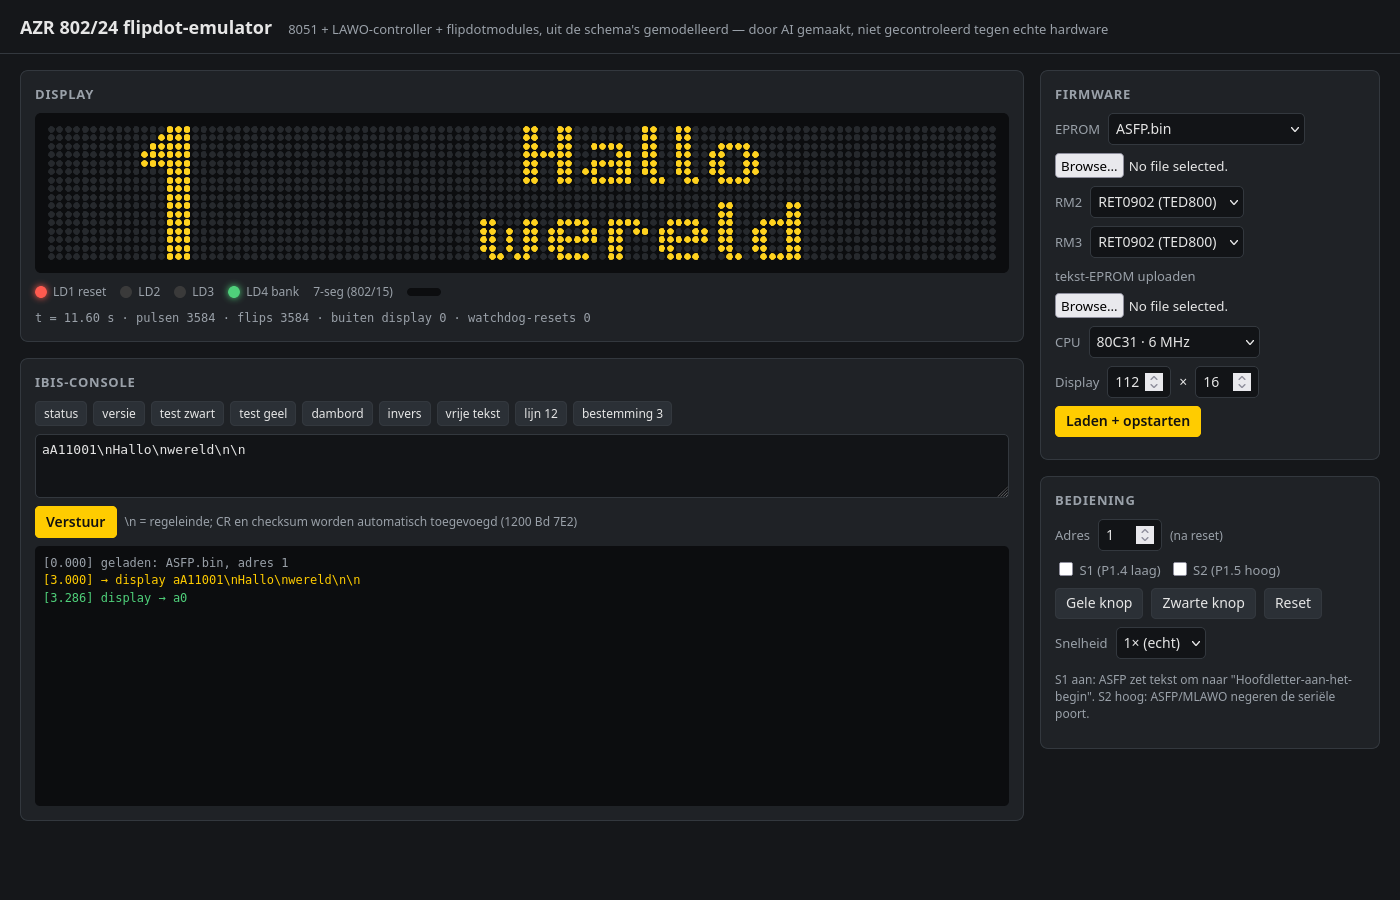
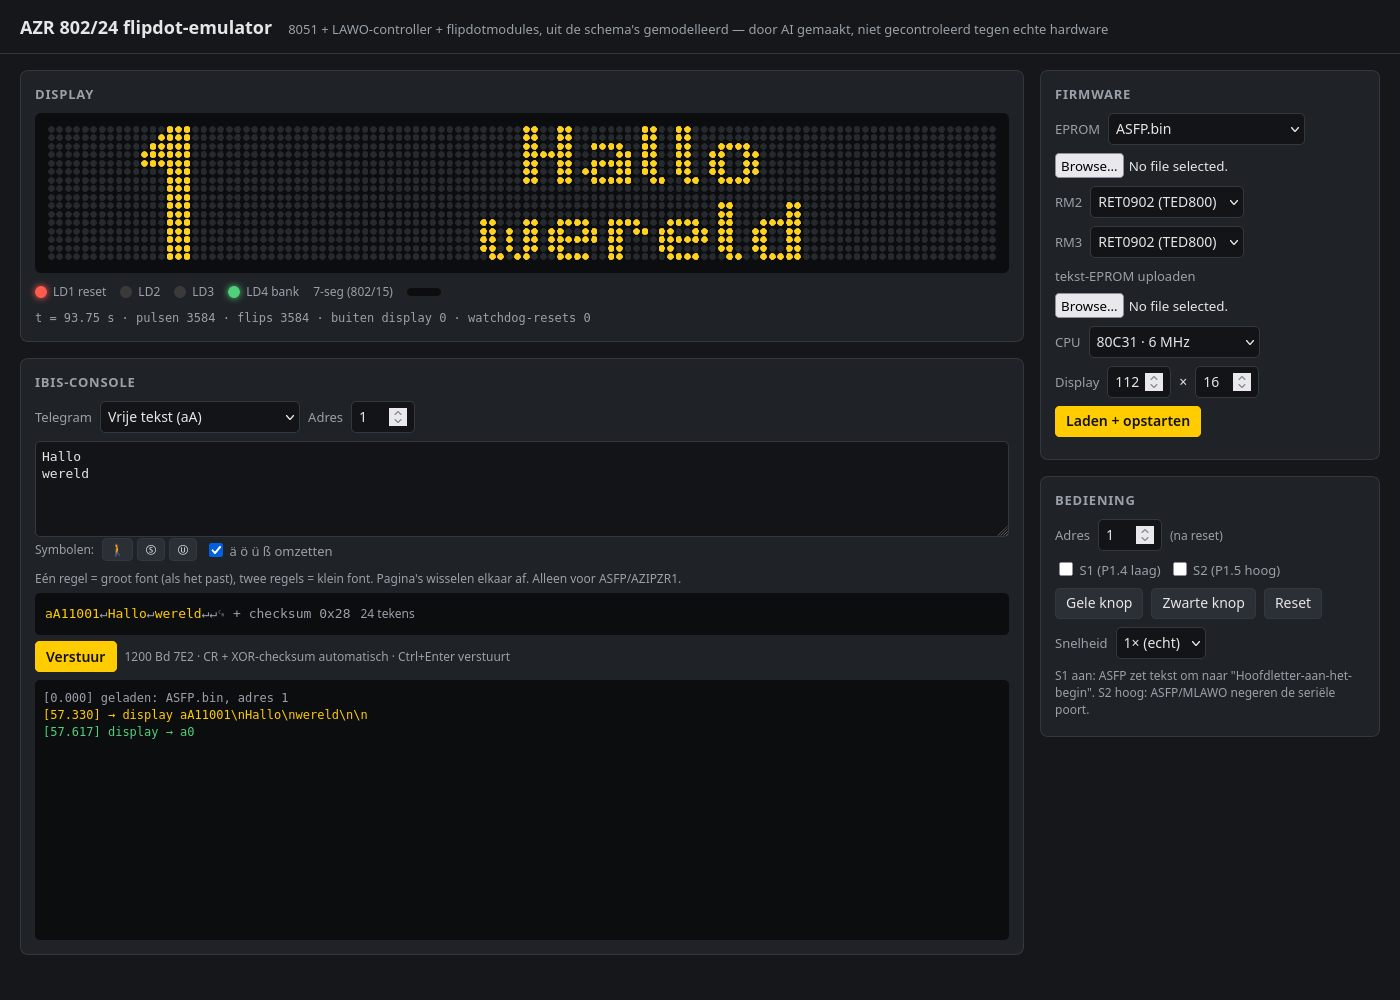
Emulator: telegrambouwer in de webinterface
- Keuze uit vrije tekst, bestemming, lijn, koers, testbeeld, status, versie
  of handmatig, met live voorbeeld inclusief checksum
- Pagina-opmaak voor ASFP (1 regel: \n\n\n, 2 regels: \n\n), in de emulator
  geverifieerd; umlauts en symbolen naar DIN 66003, waarschuwing bij >249 tekens
- Analyse: sectie 2.8 over pagina-opmaak en opbouwtijd van ASFP

diff --git a/emulator/web/app.js b/emulator/web/app.js
@@ -64,7 +64,6 @@ async function load() {
     board.on('log', (m) => log('sys', m));
     board.on('reset', (why) => log('sys', `reset (${why})`));
     setupCanvas();
-    buildPresets();
     log('sys', `geladen: ${$('rom').selectedOptions[0].textContent}, adres ${board.address}`);
     for (const id of ['rom', 'rm2', 'rm3', 'cpu', 'cols', 'rows', 'addr']) store.set(id, $(id).value);
     applyUrlActions();
@@ -109,27 +108,118 @@ function draw() {
   $('stats').textContent = `t = ${t.toFixed(2)} s · pulsen ${st.pulses} · flips ${st.flips} · buiten display ${st.outside} · watchdog-resets ${st.wdResets}`;
 }
 
-// ---------- telegrammen ----------
-function addrChar() { return String.fromCharCode(48 + Number($('addr').value)); }
-function buildPresets() {
-  const a = addrChar();
-  const presets = [
-    ['status', `a${a}`], ['versie', `aV${a}`],
-    ['test zwart', `aT${a}0`], ['test geel', `aT${a}1`], ['dambord', `aT${a}2`], ['invers', `aT${a}3`],
-    ['vrije tekst', `aA${a}1001\\nHallo\\nwereld\\n\\n`], ['lijn 12', 'l012'], ['bestemming 3', 'z003'],
-  ];
-  const el = $('presets'); el.innerHTML = '';
-  for (const [name, tele] of presets) {
-    const b = document.createElement('button'); b.textContent = name;
-    b.onclick = () => { $('tele').value = tele; send(); };
-    el.appendChild(b);
+// ---------- telegrammen samenstellen ----------
+// Symbolen in de ASFP-font (DIN 66003-variant): ze staan op de plek van gewone ASCII-tekens.
+const SYMBOLS = [['🚶', '$', 'loopmannetje'], ['Ⓢ', '=', 'S-Bahn'], ['Ⓤ', '?', 'U-Bahn']];
+const UMLAUT = { 'Ä': '[', 'Ö': '\\', 'Ü': ']', 'ä': '{', 'ö': '|', 'ü': '}', 'ß': '~' };
+const SPECIAL = '$%=?^_[\\]{|}~';
+
+const pad = (n, w) => String(Math.max(0, Math.min(10 ** w - 1, Math.floor(Number(n) || 0)))).padStart(w, '0');
+const tAddr = () => String.fromCharCode(48 + Math.max(0, Math.min(15, Number($('taddr').value) || 0)));
+
+function encodeText(text, warnings) {
+  const lines = text.replace(/\r/g, '').split('\n');
+  const pages = []; let cur = [];
+  for (const l of lines) {
+    if (l.trim() === '') { if (cur.length) pages.push(cur); cur = []; } else cur.push(l.trim());
   }
+  if (cur.length) pages.push(cur);
+  let literal = false, dropped = false;
+  const conv = (str) => {
+    let out = '';
+    for (const ch of str) {
+      const sym = SYMBOLS.find(([g]) => g === ch);
+      if (sym) { out += sym[1]; continue; }
+      if (UMLAUT[ch] && $('fumlaut').checked) { out += UMLAUT[ch]; continue; }
+      if (SPECIAL.includes(ch)) literal = true;
+      const code = ch.charCodeAt(0);
+      if (code >= 0x20 && code < 0x7F) { out += ch; continue; }
+      const plain = ch.normalize('NFD').replace(/[̀-ͯ]/g, '');
+      if (plain.length === 1 && plain.charCodeAt(0) < 0x7F) { out += plain; dropped = true; continue; }
+      dropped = true;
+    }
+    return out;
+  };
+  let body = '';
+  pages.forEach((p, i) => {
+    if (p.length > 2) warnings.push(`pagina ${i + 1} heeft ${p.length} regels; alleen de eerste twee worden getoond`);
+    // één regel: "regel\n\n\n", twee regels: "regel1\nregel2\n\n" (getest in de emulator)
+    body += conv(p[0]) + '\n' + (p[1] !== undefined ? conv(p[1]) : '') + '\n\n';
+  });
+  if (literal) warnings.push('tekens als ? = $ % [ ] { } verschijnen als symbool of umlaut (DIN 66003)');
+  if (dropped) warnings.push('accenten en onbekende tekens zijn vereenvoudigd of weggelaten');
+  if (!pages.length) body = '\n\n';
+  return body;
 }
+
+function buildTelegram() {
+  const kind = $('kind').value, warnings = [];
+  let body;
+  switch (kind) {
+    case 'text': body = `aA${tAddr()}1001\n` + encodeText($('ftext').value, warnings); break;
+    case 'dest': body = 'z' + pad($('fnum').value, 3); break;
+    case 'line': body = 'l' + pad($('fnum').value, 3); break;
+    case 'course': body = 'k' + pad($('fnum').value, 2); break;
+    case 'test': body = `aT${tAddr()}${$('fpattern').value}`; break;
+    case 'status': body = `a${tAddr()}`; break;
+    case 'version': body = `aV${tAddr()}`; break;
+    default: body = $('tele').value.replace(/\\n/g, '\n').replace(/\\r/g, '\r');
+  }
+  if (body.length + 1 > 249) warnings.push(`telegram is ${body.length + 1} tekens; ASFP negeert alles boven ~249 tekens`);
+  return { body, warnings };
+}
+
+function checksum(body) { let cs = 0x7F; for (const ch of body + '\r') cs ^= ch.charCodeAt(0); return cs; }
+
+function updateBuilder() {
+  const kind = $('kind').value;
+  for (const f of document.querySelectorAll('.fields')) f.hidden = !f.dataset.kind.split(' ').includes(kind);
+  $('numhint').textContent = {
+    dest: 'DS003: bestemmingsnummer. MLAWO/AZR-12C zoeken de tekst op in de tekst-EPROM.',
+    line: 'DS001: lijnnummer, getoond in het lijnnummervak.',
+    course: 'DS002: koersnummer (2 cijfers volgens VDV 300).',
+  }[kind] || '';
+  const { body, warnings } = buildTelegram();
+  const esc = (t) => t.replace(/[&<>]/g, (c) => ({ '&': '&amp;', '<': '&lt;', '>': '&gt;' }[c]));
+  $('preview').innerHTML = esc(body).replace(/\n/g, '<span class="ctl">↵</span>') +
+    `<span class="ctl">␍ + checksum 0x${checksum(body).toString(16).padStart(2, '0').toUpperCase()}</span>`;
+  $('plen').textContent = `${body.length + 2} tekens`;
+  $('pwarn').textContent = warnings.join(' · ');
+  store.set('kind', kind); store.set('ftext', $('ftext').value);
+}
+
 function send() {
   if (!board) return;
-  const body = $('tele').value.replace(/\\n/g, '\n').replace(/\r?\n$/, (m) => m);
+  const { body } = buildTelegram();
   board.sendTelegram(body);
   log('tx', `→ display ${show(body)}`);
+}
+
+function insertAtCursor(el, text) {
+  const s = el.selectionStart ?? el.value.length, e = el.selectionEnd ?? s;
+  el.value = el.value.slice(0, s) + text + el.value.slice(e);
+  el.selectionStart = el.selectionEnd = s + text.length;
+  el.focus();
+}
+
+function initBuilder() {
+  $('kind').value = store.get('kind', 'text');
+  $('ftext').value = store.get('ftext', $('ftext').value);
+  $('taddr').value = $('addr').value;
+  const sym = $('symbols');
+  for (const [glyph, , name] of SYMBOLS) {
+    const b = document.createElement('button'); b.type = 'button'; b.textContent = glyph; b.title = name;
+    b.onclick = () => { insertAtCursor($('ftext'), glyph); updateBuilder(); };
+    sym.appendChild(b);
+  }
+  for (const id of ['kind', 'taddr', 'ftext', 'fumlaut', 'fnum', 'fpattern', 'tele']) {
+    $(id).addEventListener('input', updateBuilder);
+    $(id).addEventListener('change', updateBuilder);
+  }
+  for (const id of ['ftext', 'tele', 'fnum']) {
+    $(id).addEventListener('keydown', (e) => { if (e.key === 'Enter' && (e.ctrlKey || e.metaKey)) { e.preventDefault(); send(); } });
+  }
+  updateBuilder();
 }
 
 // ---------- knoppen ----------
@@ -153,7 +243,7 @@ function frame(now) {
   requestAnimationFrame(frame);
 }
 
-// URL-parameters: ?rom=ASFP.bin&addr=1&prerun=3&send=aA11001\nHallo\n\n&after=5&speed=1
+// URL-parameters: ?rom=ASFP.bin&addr=1&prerun=3&send=aA11001\nHallo\n\n\n&after=5&speed=1
 const params = new URLSearchParams(location.search);
 function applyUrlParams() {
   const rom = params.get('rom');
@@ -166,7 +256,9 @@ function applyUrlActions() {
   urlActionsDone = true;
   if (params.has('prerun')) board.runSeconds(Number(params.get('prerun')));
   if (params.has('send')) {
+    $('kind').value = 'raw';
     $('tele').value = params.get('send');
+    updateBuilder();
     send();
     if (params.has('after')) board.runSeconds(Number(params.get('after')));
   }
@@ -191,11 +283,11 @@ function init() {
   applyUrlParams();
   $('load').onclick = load;
   $('send').onclick = send;
-  $('tele').addEventListener('keydown', (e) => { if (e.key === 'Enter' && (e.ctrlKey || e.metaKey)) send(); });
-  $('btnReset').onclick = () => { if (board) { board.address = Number($('addr').value); board.cpu.reset(); log('sys', 'reset (knop)'); buildPresets(); } };
+  initBuilder();
+  $('btnReset').onclick = () => { if (board) { board.address = Number($('addr').value); board.cpu.reset(); log('sys', 'reset (knop)'); } };
   $('s1').onchange = () => { if (board) board.s1 = $('s1').checked ? 0 : 1; };
   $('s2').onchange = () => { if (board) board.s2 = $('s2').checked ? 1 : 0; };
-  $('addr').onchange = () => buildPresets();
+  $('addr').onchange = () => { $('taddr').value = $('addr').value; updateBuilder(); };
   holdButton('btnYellow', 'yellow');
   holdButton('btnBlack', 'black');
   load();

diff --git a/emulator/web/index.html b/emulator/web/index.html
@@ -38,10 +38,18 @@
   #log { height: 260px; overflow-y: auto; background: #0c0d0f; border-radius: 5px; padding: 8px; font: 12px/1.45 ui-monospace, monospace; white-space: pre-wrap; }
   #log .tx { color: var(--accent); } #log .rx { color: var(--ok); } #log .sys { color: var(--muted); } #log .err { color: var(--danger); }
   .stats { font: 12px/1.6 ui-monospace, monospace; color: var(--muted); }
-  .presets { display: flex; gap: 6px; flex-wrap: wrap; }
-  .presets button { font-size: 12px; padding: 3px 8px; }
-  textarea { width: 100%; height: 64px; background: #121417; color: var(--text); border: 1px solid var(--line); border-radius: 5px; padding: 6px; font: 13px ui-monospace, monospace; resize: vertical; }
-  .hint { color: var(--muted); font-size: 12px; }
+  textarea { width: 100%; height: 96px; background: #121417; color: var(--text); border: 1px solid var(--line); border-radius: 5px; padding: 6px; font: 13px ui-monospace, monospace; resize: vertical; }
+  .hint { color: var(--muted); font-size: 12px; margin: 4px 0; }
+  .hint.warn { color: var(--accent); }
+  .hint.warn:empty { display: none; }
+  .fields { margin-bottom: 6px; }
+  .fields[hidden] { display: none; }
+  .symbols { display: inline-flex; gap: 4px; flex-wrap: wrap; }
+  .symbols button { font-size: 12px; padding: 2px 7px; }
+  .preview { display: flex; gap: 10px; align-items: baseline; flex-wrap: wrap; background: #0c0d0f; border-radius: 5px; padding: 8px 10px; margin: 6px 0; }
+  .preview code { font: 13px ui-monospace, monospace; color: var(--accent); word-break: break-all; }
+  .preview code .ctl { color: var(--muted); }
+  .hint code { font: 12px ui-monospace, monospace; color: var(--text); }
 </style>
 </head>
 <body>
@@ -67,11 +75,60 @@
     </section>
     <section>
       <h2>IBIS-console</h2>
-      <div class="presets" id="presets"></div>
-      <div style="margin:8px 0"><textarea id="tele" spellcheck="false">aA11001\nHallo\nwereld\n\n</textarea></div>
+      <div class="row">
+        <label for="kind">Telegram</label>
+        <select id="kind">
+          <option value="text">Vrije tekst (aA)</option>
+          <option value="dest">Bestemmingsnummer (z)</option>
+          <option value="line">Lijnnummer (l)</option>
+          <option value="course">Koersnummer (k)</option>
+          <option value="test">Testbeeld (aT)</option>
+          <option value="status">Status opvragen (a)</option>
+          <option value="version">Versie opvragen (aV)</option>
+          <option value="raw">Handmatig</option>
+        </select>
+        <label for="taddr">Adres</label><input type="number" id="taddr" value="1" min="0" max="15">
+      </div>
+
+      <div class="fields" data-kind="text">
+        <textarea id="ftext" spellcheck="false" placeholder="Eén of twee regels per pagina. Lege regel = volgende pagina.">Hallo
+wereld
+
+Tweede pagina</textarea>
+        <div class="row">
+          <span class="hint">Symbolen:</span>
+          <span class="symbols" id="symbols"></span>
+          <label><input type="checkbox" id="fumlaut" checked> ä ö ü ß omzetten</label>
+        </div>
+        <p class="hint">Eén regel = groot font (als het past), twee regels = klein font. Pagina's wisselen elkaar af. Alleen voor ASFP/AZIPZR1.</p>
+      </div>
+      <div class="fields" data-kind="dest line course">
+        <div class="row"><label for="fnum">Nummer</label><input type="number" id="fnum" value="3" min="0" max="999"></div>
+        <p class="hint" id="numhint"></p>
+      </div>
+      <div class="fields" data-kind="test">
+        <div class="row">
+          <label for="fpattern">Beeld</label>
+          <select id="fpattern"><option value="0">0 · alles zwart</option><option value="1">1 · alles geel</option><option value="2">2 · dambord</option><option value="3">3 · omgekeerd dambord</option></select>
+        </div>
+        <p class="hint">Adres 0 = alle displays.</p>
+      </div>
+      <div class="fields" data-kind="status version">
+        <p class="hint">Het display antwoordt in het logboek hieronder (status: <code>a0</code>, versie: bv. <code>aVF00293</code>).</p>
+      </div>
+      <div class="fields" data-kind="raw">
+        <textarea id="tele" spellcheck="false">aA11001\nHallo\n\n\n</textarea>
+        <p class="hint">\n = regeleinde. CR en checksum worden automatisch toegevoegd.</p>
+      </div>
+
+      <div class="preview">
+        <code id="preview"></code>
+        <span id="plen" class="hint"></span>
+      </div>
+      <p class="hint warn" id="pwarn"></p>
       <div class="row">
         <button class="primary" id="send">Verstuur</button>
-        <span class="hint">\n = regeleinde; CR en checksum worden automatisch toegevoegd (1200 Bd 7E2)</span>
+        <span class="hint">1200 Bd 7E2 · CR + XOR-checksum automatisch · Ctrl+Enter verstuurt</span>
       </div>
       <div id="log"></div>
     </section>

diff --git a/docs/analyse.md b/docs/analyse.md
@@ -212,6 +212,17 @@ Versie-antwoorden: MLAWO `R.SCH.` (ROM 0x380B), ASFP en AZIPZR1 allebei `F00293`
 
 ---
 
+### 2.8 Vrije tekst (`aA`) in ASFP: pagina-opmaak (getest in de emulator)
+
+- Na `aA` + adres slaat ASFP vijf tekens over (bijvoorbeeld `1001\n`). Daarna volgt de tekst.
+- **Pagina van twee regels:** `regel1\nregel2\n\n`. Beide regels krijgen het kleine font.
+- **Pagina van één regel:** `regel\n\n\n`. Met maar `\n\n` valt het eerste teken van de volgende pagina weg.
+  Een losse regel krijgt het grote font als hij past, anders een kleiner font.
+- Bij meerdere pagina's wisselen die elkaar af.
+- ASFP begint pas ongeveer 2,5 s na het telegram met tekenen. Daarna schrijft hij alle dots opnieuw, met pulsen van ongeveer 1,1 ms. Een nieuw beeld kost dus ongeveer 4,5 s.
+
+---
+
 ## 3. Bediening en diagnose (uit firmware + handleiding)
 
 - Testknop geel/zwart (TG/TS op P3.2/P3.3) → hele display geel/zwart.

diff --git a/emulator/README.md b/emulator/README.md
@@ -26,7 +26,7 @@ In de browser kun je:
 - een firmware kiezen of je eigen `.bin` uploaden;
 - een tekst-EPROM of RAM in RM2/RM3 zetten;
 - het adres, S1/S2, de gele en zwarte knop en reset bedienen;
-- IBIS-telegrammen sturen (CR en checksum gaan automatisch);
+- telegrammen samenstellen met de **telegrambouwer**: kies het soort telegram (vrije tekst, bestemming, lijn, koers, testbeeld, status of versie) en vul de velden in. Je ziet het telegram en de checksum live. Umlauts en symbolen (loopmannetje, S-Bahn, U-Bahn) worden omgezet naar de tekens van de font, en je krijgt een waarschuwing bij te lange telegrammen. Handmatig typen kan ook;
 - de LED's, het 7-segmentdisplay en de antwoorden van het display bekijken.
 
 Met URL-parameters kun je meteen een situatie openen, bijvoorbeeld
